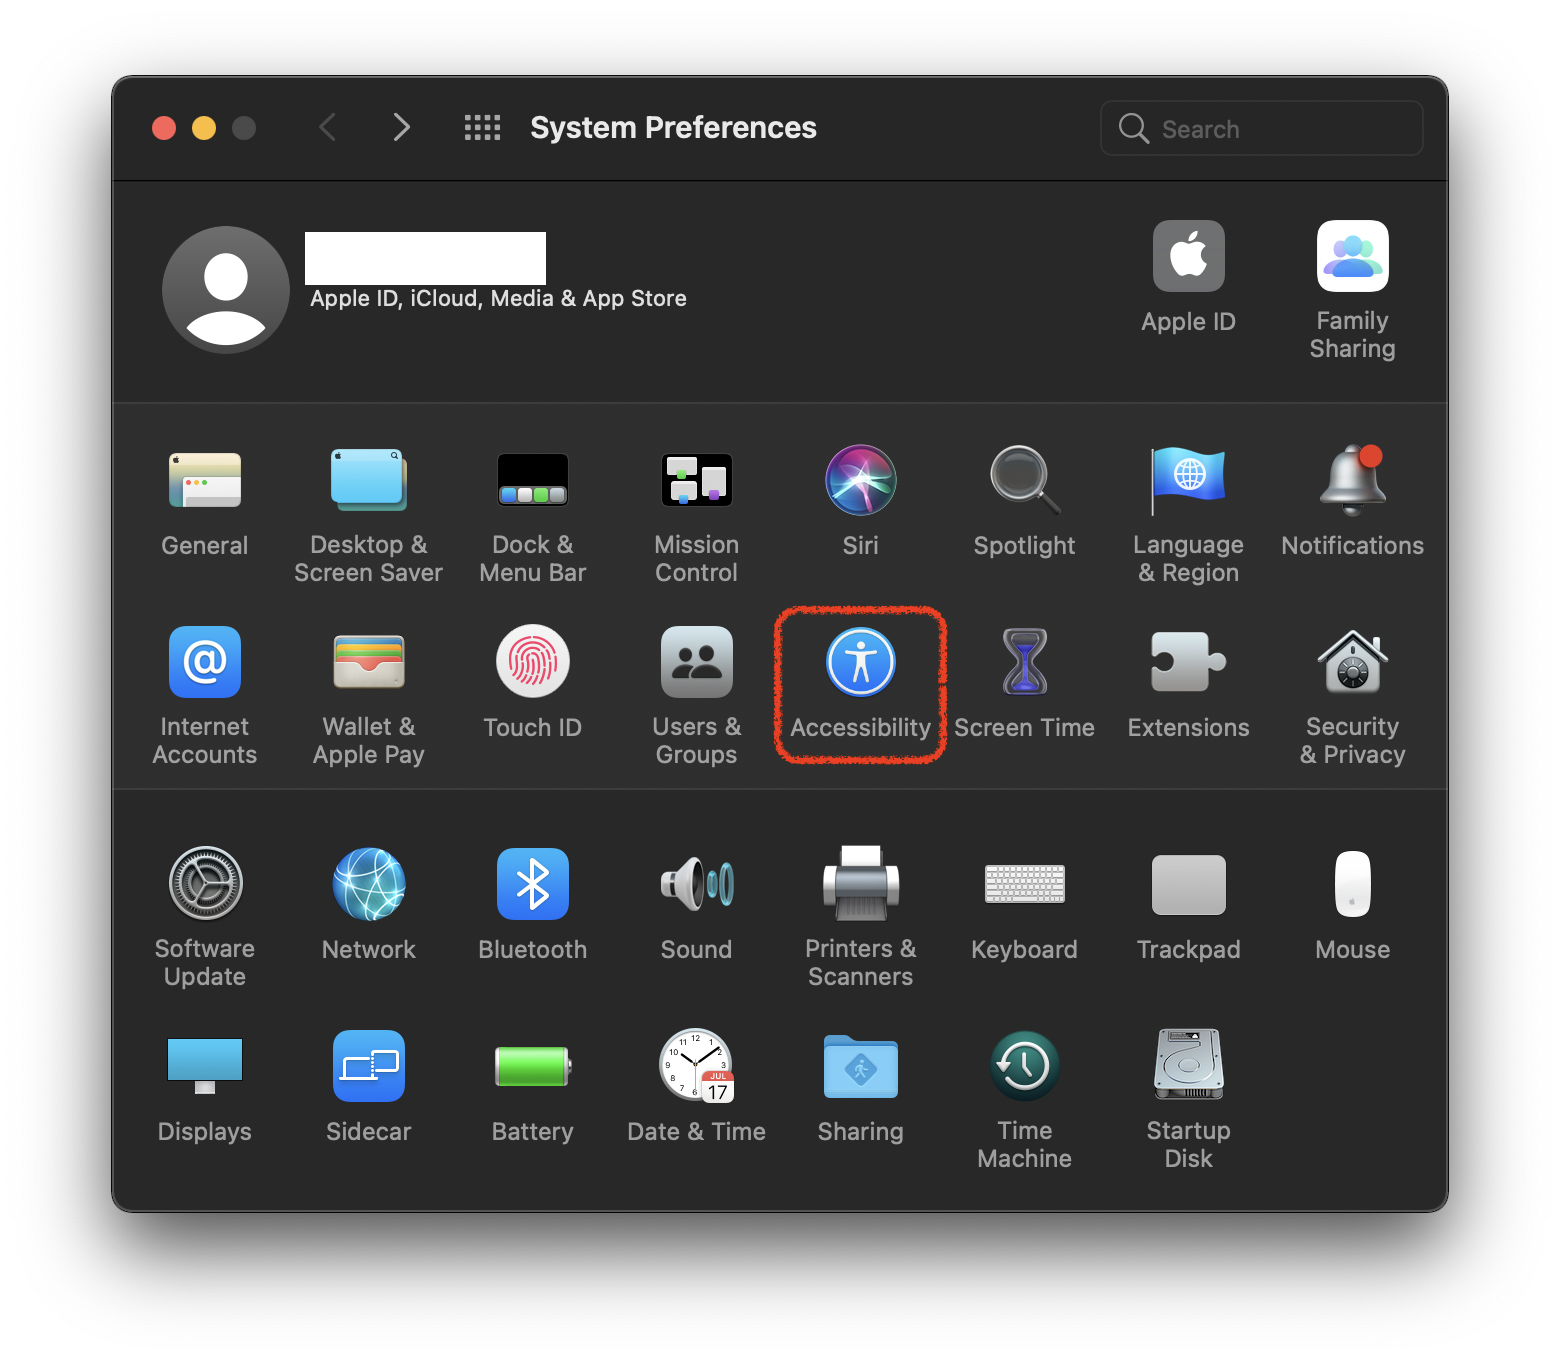
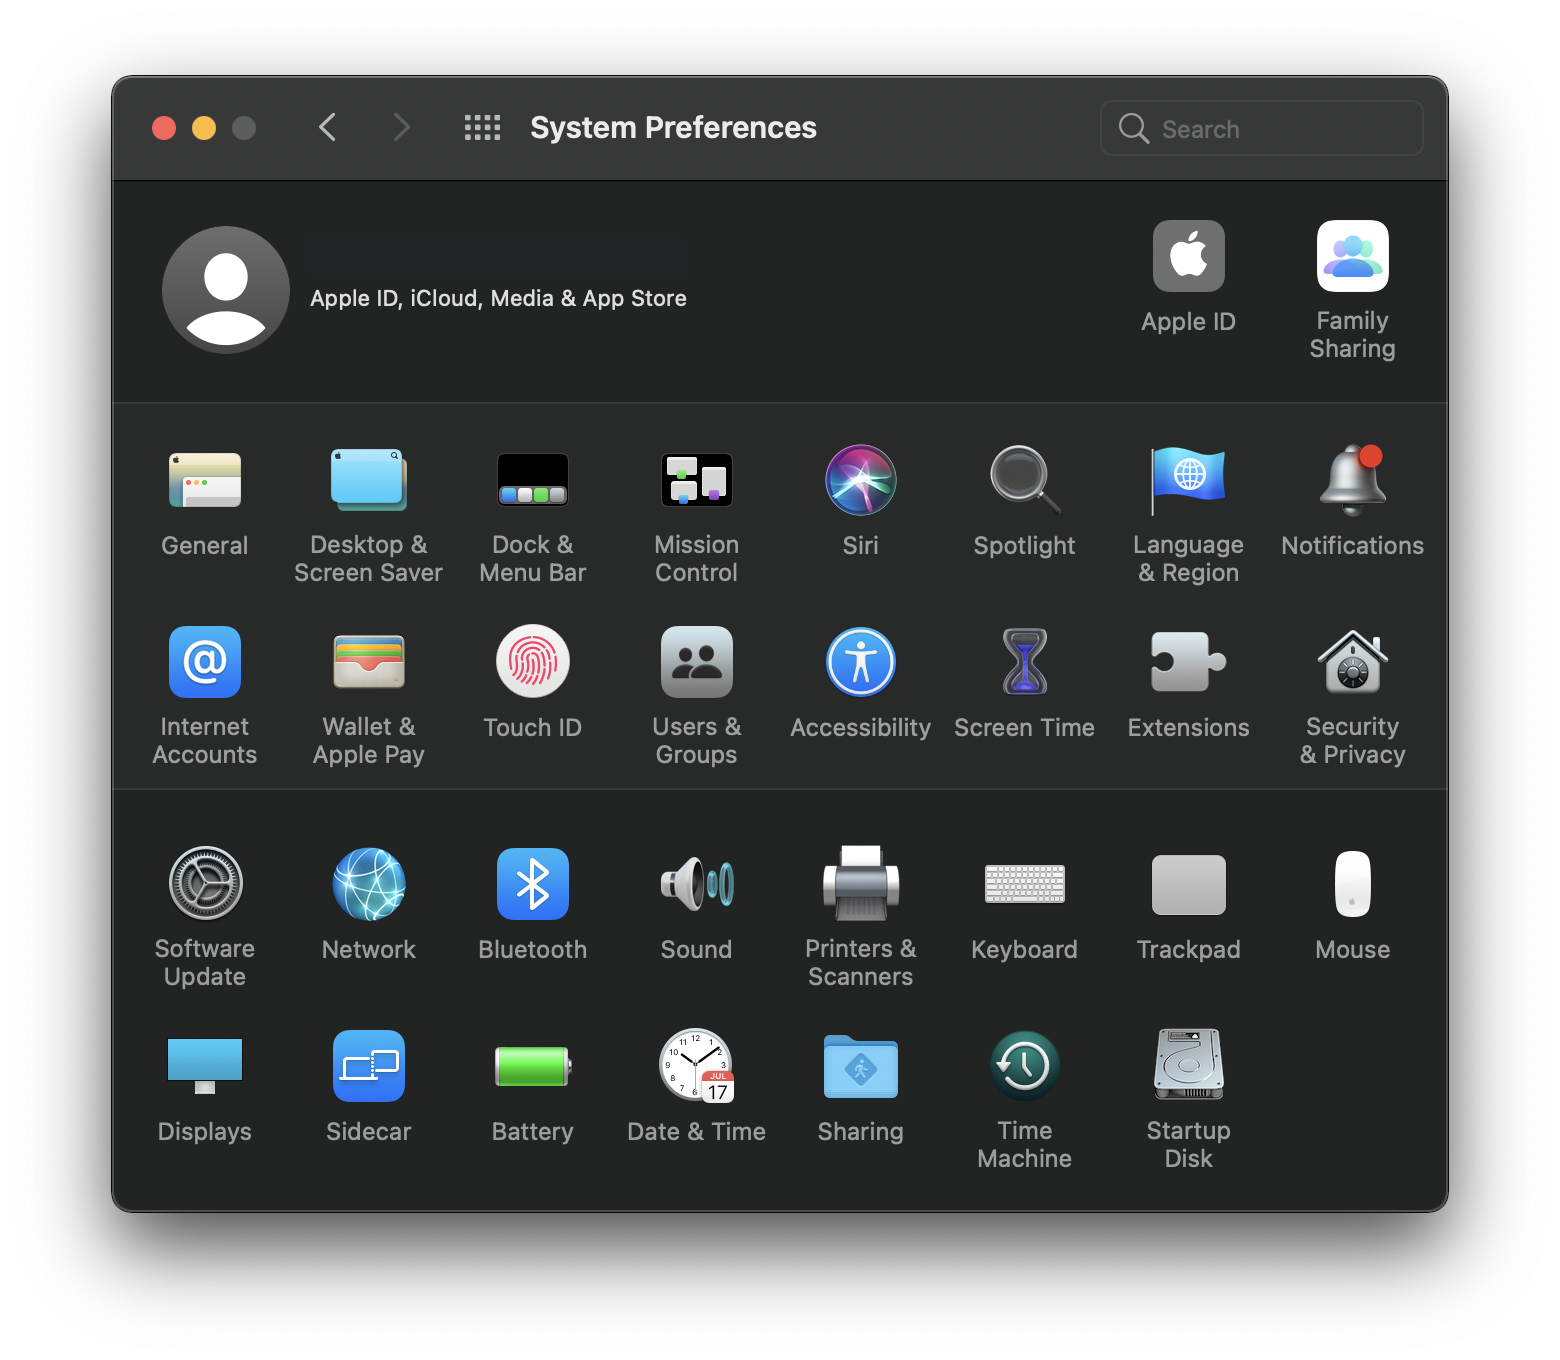
update accessibility doc

Changed region(s): [[0.4923, 0.4324, 0.6154, 0.5868], [0.1846, 0.1544, 0.3692, 0.2162]]

diff --git a/docs/defaults/com.apple.Accessibility.md b/docs/defaults/com.apple.Accessibility.md
@@ -28,7 +28,7 @@ Manage Accessibility tools configuration
 
 ## Graphical
 
-![System Preferences](/media/SystemPreferences.png)
+![System Preferences](/media/SystemPreferences.Accessibility.png)
 
 Go to System Preferences > Accessibility
 
@@ -90,7 +90,7 @@ defaults write com.apple.Accessibility DifferentiateWithoutColor -bool true
  
  N/A, Missing
 
-## Not Documented
+## Not yet Documented
 
 - BrailleInputDeviceConnected
 - CommandAndControlEnabled
